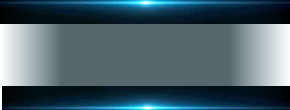
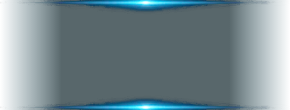
总览指标样式

diff --git a/src/components/sourcelayer/extraModel/Overview/Overview.vue b/src/components/sourcelayer/extraModel/Overview/Overview.vue
@@ -15,7 +15,7 @@
         </p>
       </div>
       <div class="imgs">
-        <img src="/static/images/common/cloud.png" />
+        <img src="/static/images/common/cloud@2x.png" />
         <br />
         <img src="/static/images/common/cloud-line.png" />
       </div>
@@ -158,9 +158,9 @@ export default {
     left: 0;
     cursor: pointer;
     .texts {
-      // background-image: url("/static/images/common/cloud-frame@2x.png");
-      // background-size: 100% 100%;
-      // padding: 10px 0;
+      background-image: url("/static/images/common/cloud-frame@2x.png");
+      background-size: 100% 100%;
+      padding: 10px 10px 4px 10px;
       > header {
         color: #2acbfe;
         font-weight: bold;
@@ -181,6 +181,9 @@ export default {
     }
     .imgs {
       text-align: center;
+      > img:first-child {
+        width: 120px;
+      }
     }
   }
 }

diff --git a/src/components/sourcelayer/commonFrame/BayonetPopup/bayonetPopup.vue b/src/components/sourcelayer/commonFrame/BayonetPopup/bayonetPopup.vue
@@ -59,11 +59,11 @@
           class="bayonet-ico"
           :src="`/static/images/common/${item.extra_data.category}-${item.extra_data.status}.png`"
         />
-        <img
+        <!-- <img
           class="bayonet-warn"
           v-if="item.extra_data.status=='红'"
           src="/static/images/common/warn@2x.png"
-        />
+        />-->
       </div>
     </div>
   </div>
